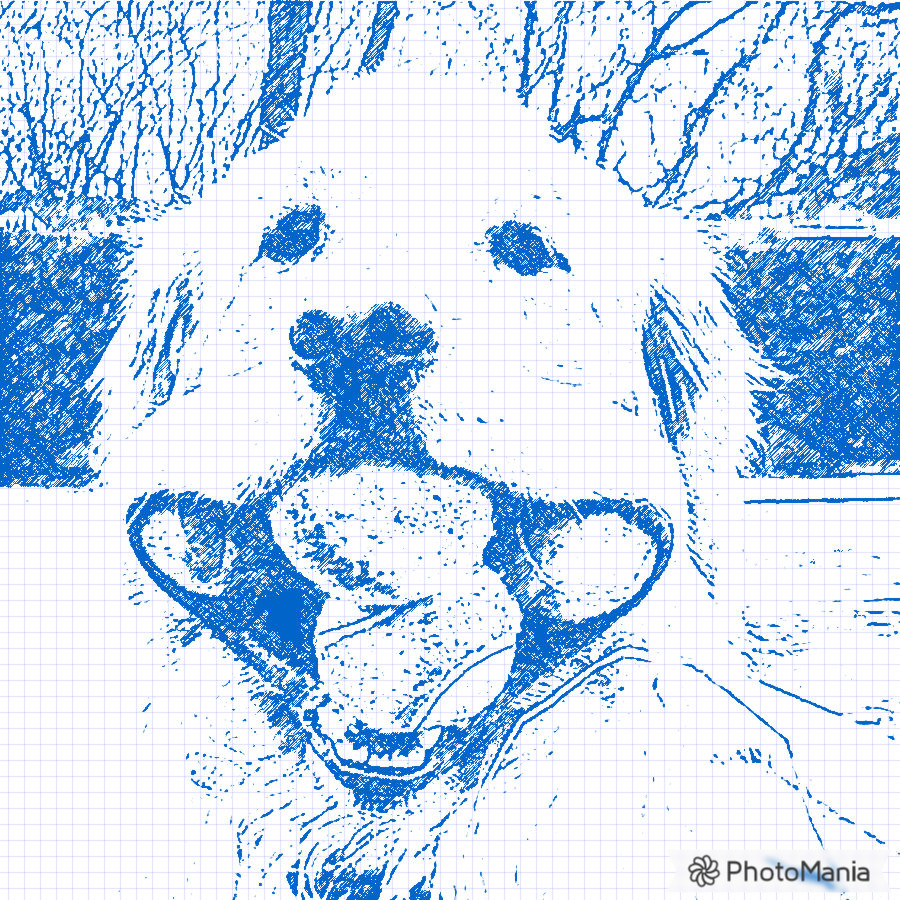
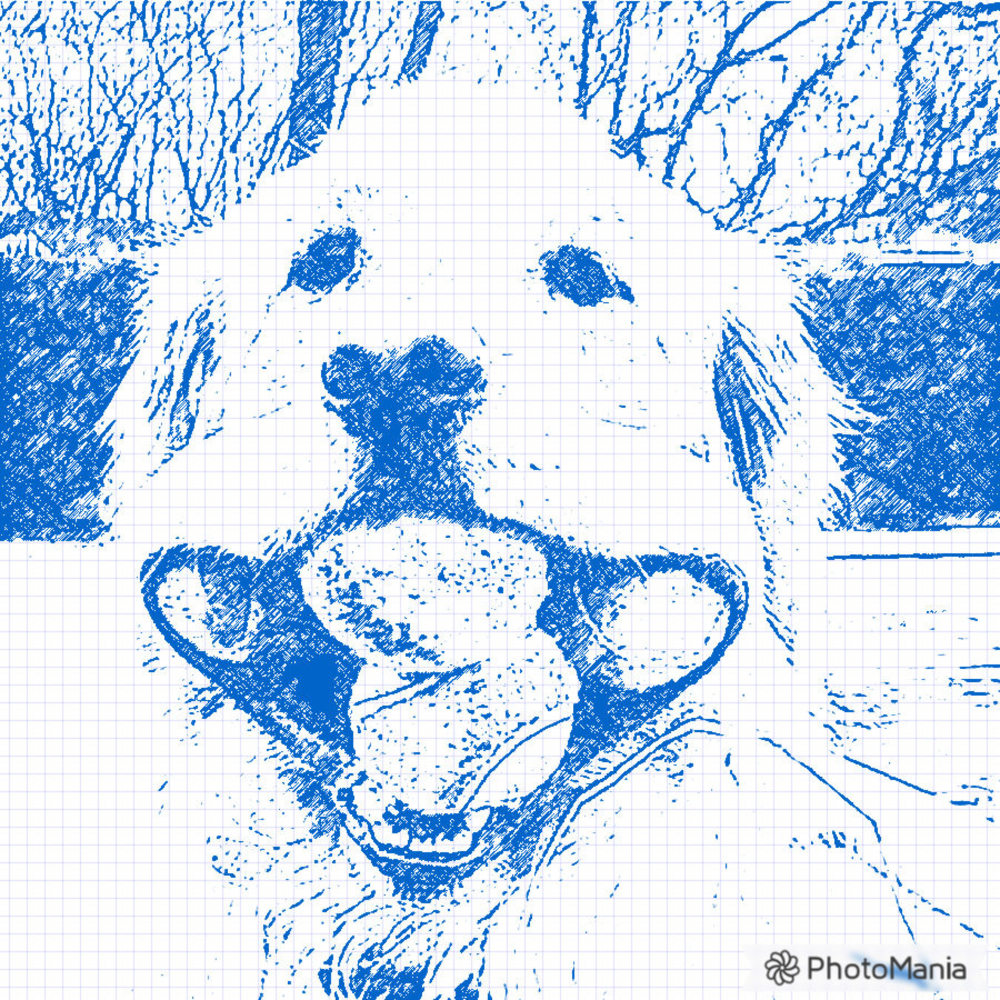
error drawImage on Background class

diff --git a/js/background.js b/js/background.js
@@ -2,7 +2,7 @@
 
 class Background {
   constructor() {
-    this.dogImage = new Image();
+    this.imageCover = new Image();
     this.drawGrid();
     this.coordinatesArray = [];
     this.populateCoordinates();
@@ -100,6 +100,32 @@ class Background {
   this.countTotalValues = this.flatValues.length - this.flatValues.filter(Boolean).length;
   this.countPercentageValues = ((1 - this.flatValues.filter(Boolean).length / this.flatValues.length) * 100).toFixed(0);
   //console.log(this.countPercentageValues)  
+  }
+
+  // Image
+  
+  drawImage() {
+  this.imageCover.src = 'images/dogImageCover.jpg';
+ 
+  this.imageCover.addEventListener('load', () => {  
+  for (let col = 0; col < tileCount; col++) {
+    for (let row = 0; row < tileCount; row++) {
+      if (this.coordinatesValues[col][row] === true) {
+        context.drawImage(this.imageCover, 
+        this.coordinatesArray[col][col] * tileSize, 
+        this.coordinatesArray[col][row] * tileSize, 
+        tileSize, 
+        tileSize, 
+        this.coordinatesArray[col][col] * tileSize, 
+        this.coordinatesArray[col][row] * tileSize, 
+        tileSize -5, 
+        tileSize -5
+        );
+      }
+    }
+  }
+  })
 }
   
+
 }

diff --git a/js/main.js b/js/main.js
@@ -27,3 +27,29 @@ triggerPlayElement.addEventListener( 'click', () => {
 
   game.loop();
 });
+
+
+//Image
+
+const dogImageCover = new Image();
+dogImageCover.src = 'images/dogImageCover.jpg'; 
+
+dogImageCover.addEventListener('load', () => {  
+  for (let col = 0; col < tileCount; col++) {
+    for (let row = 0; row < tileCount; row++) {
+      if (coordinatesValues[col][row] === true) {
+        context.drawImage(dogImageCover, 
+        coordinatesArray[col][col] * tileSize, 
+        coordinatesArray[col][row] * tileSize, 
+        tileSize, 
+        tileSize, 
+        coordinatesArray[col][col] * tileSize, 
+        coordinatesArray[col][row] * tileSize, 
+        tileSize -5, 
+        tileSize -5
+        );
+      }
+    }
+  }
+  })
+  
